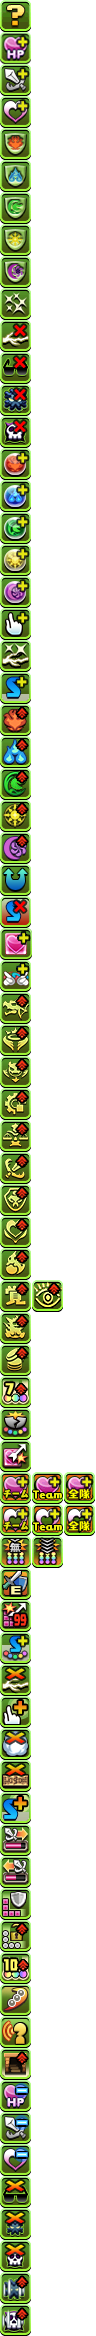
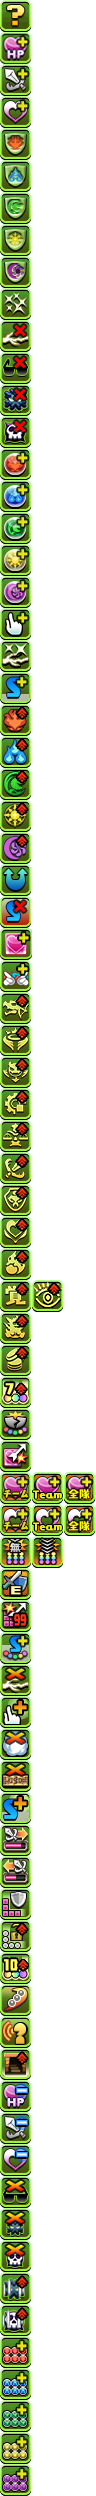
增加新的5个2串觉醒

diff --git a/triple.html b/triple.html
@@ -405,6 +405,11 @@ var formation = new Formation(teamsCount,6);
 						<li class="awoken-count display-none"><span class="awoken-icon" data-awoken-icon="70"></span><span class="count"></span></li><!--大防毒-->
 						<li class="awoken-count display-none"><span class="awoken-icon" data-awoken-icon="71"></span><span class="count"></span></li><!--掉废-->
 						<li class="awoken-count display-none"><span class="awoken-icon" data-awoken-icon="72"></span><span class="count"></span></li><!--掉毒-->
+						<li class="awoken-count display-none"><span class="awoken-icon" data-awoken-icon="73"></span><span class="count"></span></li><!--2串火-->
+						<li class="awoken-count display-none"><span class="awoken-icon" data-awoken-icon="74"></span><span class="count"></span></li><!--2串水-->
+						<li class="awoken-count display-none"><span class="awoken-icon" data-awoken-icon="75"></span><span class="count"></span></li><!--2串木-->
+						<li class="awoken-count display-none"><span class="awoken-icon" data-awoken-icon="76"></span><span class="count"></span></li><!--2串光-->
+						<li class="awoken-count display-none"><span class="awoken-icon" data-awoken-icon="77"></span><span class="count"></span></li><!--2串暗-->
 					</ul>
 				</div>
 			</li>
@@ -745,6 +750,11 @@ var formation = new Formation(teamsCount,6);
 						<li class="awoken-count display-none"><span class="awoken-icon" data-awoken-icon="70"></span><span class="count"></span></li><!--大防毒-->
 						<li class="awoken-count display-none"><span class="awoken-icon" data-awoken-icon="71"></span><span class="count"></span></li><!--掉废-->
 						<li class="awoken-count display-none"><span class="awoken-icon" data-awoken-icon="72"></span><span class="count"></span></li><!--掉毒-->
+						<li class="awoken-count display-none"><span class="awoken-icon" data-awoken-icon="73"></span><span class="count"></span></li><!--2串火-->
+						<li class="awoken-count display-none"><span class="awoken-icon" data-awoken-icon="74"></span><span class="count"></span></li><!--2串水-->
+						<li class="awoken-count display-none"><span class="awoken-icon" data-awoken-icon="75"></span><span class="count"></span></li><!--2串木-->
+						<li class="awoken-count display-none"><span class="awoken-icon" data-awoken-icon="76"></span><span class="count"></span></li><!--2串光-->
+						<li class="awoken-count display-none"><span class="awoken-icon" data-awoken-icon="77"></span><span class="count"></span></li><!--2串暗-->
 					</ul>
 				</div>
 			</li>
@@ -1085,6 +1095,11 @@ var formation = new Formation(teamsCount,6);
 						<li class="awoken-count display-none"><span class="awoken-icon" data-awoken-icon="70"></span><span class="count"></span></li><!--大防毒-->
 						<li class="awoken-count display-none"><span class="awoken-icon" data-awoken-icon="71"></span><span class="count"></span></li><!--掉废-->
 						<li class="awoken-count display-none"><span class="awoken-icon" data-awoken-icon="72"></span><span class="count"></span></li><!--掉毒-->
+						<li class="awoken-count display-none"><span class="awoken-icon" data-awoken-icon="73"></span><span class="count"></span></li><!--2串火-->
+						<li class="awoken-count display-none"><span class="awoken-icon" data-awoken-icon="74"></span><span class="count"></span></li><!--2串水-->
+						<li class="awoken-count display-none"><span class="awoken-icon" data-awoken-icon="75"></span><span class="count"></span></li><!--2串木-->
+						<li class="awoken-count display-none"><span class="awoken-icon" data-awoken-icon="76"></span><span class="count"></span></li><!--2串光-->
+						<li class="awoken-count display-none"><span class="awoken-icon" data-awoken-icon="77"></span><span class="count"></span></li><!--2串暗-->
 					</ul>
 				</div>
 			</li>
@@ -1237,6 +1252,11 @@ var formation = new Formation(teamsCount,6);
 					<li class="awoken-count zero"><button class="awoken-icon" data-awoken-icon="70"></button><label class="count-symbol"><input type="button" class="count" value="0" /></label></li><!--大防毒-->
 					<li class="awoken-count zero"><button class="awoken-icon" data-awoken-icon="71"></button><label class="count-symbol"><input type="button" class="count" value="0" /></label></li><!--掉废-->
 					<li class="awoken-count zero"><button class="awoken-icon" data-awoken-icon="72"></button><label class="count-symbol"><input type="button" class="count" value="0" /></label></li><!--掉毒-->
+					<li class="awoken-count zero"><button class="awoken-icon" data-awoken-icon="73"></button><label class="count-symbol"><input type="button" class="count" value="0" /></label></li><!--2串火-->
+					<li class="awoken-count zero"><button class="awoken-icon" data-awoken-icon="74"></button><label class="count-symbol"><input type="button" class="count" value="0" /></label></li><!--2串水-->
+					<li class="awoken-count zero"><button class="awoken-icon" data-awoken-icon="75"></button><label class="count-symbol"><input type="button" class="count" value="0" /></label></li><!--2串木-->
+					<li class="awoken-count zero"><button class="awoken-icon" data-awoken-icon="76"></button><label class="count-symbol"><input type="button" class="count" value="0" /></label></li><!--2串光-->
+					<li class="awoken-count zero"><button class="awoken-icon" data-awoken-icon="77"></button><label class="count-symbol"><input type="button" class="count" value="0" /></label></li><!--2串暗-->
 				</ul>
 			</div>
 			<div class="sawoken-div"><!--超觉醒-->
@@ -1314,6 +1334,11 @@ var formation = new Formation(teamsCount,6);
 					<li class="awoken-count"><input type="checkbox" class="sawoken-check" name="types" value="67" id="search-awoken-67" /><label class="awoken-icon" data-awoken-icon="67" for="search-awoken-67"></label></li><!--回复- -->
 					<li class="awoken-count"><input type="checkbox" class="sawoken-check" name="types" value="71" id="search-awoken-71" /><label class="awoken-icon" data-awoken-icon="71" for="search-awoken-71"></label></li><!--掉废-->
 					<li class="awoken-count"><input type="checkbox" class="sawoken-check" name="types" value="72" id="search-awoken-72" /><label class="awoken-icon" data-awoken-icon="72" for="search-awoken-72"></label></li><!--掉毒-->
+					<li class="awoken-count"><input type="checkbox" class="sawoken-check" name="types" value="73" id="search-awoken-73" /><label class="awoken-icon" data-awoken-icon="73" for="search-awoken-73"></label></li><!--2串火-->
+					<li class="awoken-count"><input type="checkbox" class="sawoken-check" name="types" value="74" id="search-awoken-74" /><label class="awoken-icon" data-awoken-icon="74" for="search-awoken-74"></label></li><!--2串水-->
+					<li class="awoken-count"><input type="checkbox" class="sawoken-check" name="types" value="75" id="search-awoken-75" /><label class="awoken-icon" data-awoken-icon="75" for="search-awoken-75"></label></li><!--2串木-->
+					<li class="awoken-count"><input type="checkbox" class="sawoken-check" name="types" value="76" id="search-awoken-76" /><label class="awoken-icon" data-awoken-icon="76" for="search-awoken-76"></label></li><!--2串光-->
+					<li class="awoken-count"><input type="checkbox" class="sawoken-check" name="types" value="77" id="search-awoken-77" /><label class="awoken-icon" data-awoken-icon="77" for="search-awoken-77"></label></li><!--2串暗-->
 				</ul>
 			</div>
 			<div class="control-div"><!--控制栏-->

diff --git a/solo.html b/solo.html
@@ -390,6 +390,11 @@ var formation = new Formation(teamsCount,6);
 						<li class="awoken-count display-none"><span class="awoken-icon" data-awoken-icon="70"></span><span class="count"></span></li><!--大防毒-->
 						<li class="awoken-count display-none"><span class="awoken-icon" data-awoken-icon="71"></span><span class="count"></span></li><!--掉废-->
 						<li class="awoken-count display-none"><span class="awoken-icon" data-awoken-icon="72"></span><span class="count"></span></li><!--掉毒-->
+						<li class="awoken-count display-none"><span class="awoken-icon" data-awoken-icon="73"></span><span class="count"></span></li><!--2串火-->
+						<li class="awoken-count display-none"><span class="awoken-icon" data-awoken-icon="74"></span><span class="count"></span></li><!--2串水-->
+						<li class="awoken-count display-none"><span class="awoken-icon" data-awoken-icon="75"></span><span class="count"></span></li><!--2串木-->
+						<li class="awoken-count display-none"><span class="awoken-icon" data-awoken-icon="76"></span><span class="count"></span></li><!--2串光-->
+						<li class="awoken-count display-none"><span class="awoken-icon" data-awoken-icon="77"></span><span class="count"></span></li><!--2串暗-->
 					</ul>
 				</div>
 			</li>
@@ -542,6 +547,11 @@ var formation = new Formation(teamsCount,6);
 					<li class="awoken-count zero"><button class="awoken-icon" data-awoken-icon="70"></button><label class="count-symbol"><input type="button" class="count" value="0" /></label></li><!--大防毒-->
 					<li class="awoken-count zero"><button class="awoken-icon" data-awoken-icon="71"></button><label class="count-symbol"><input type="button" class="count" value="0" /></label></li><!--掉废-->
 					<li class="awoken-count zero"><button class="awoken-icon" data-awoken-icon="72"></button><label class="count-symbol"><input type="button" class="count" value="0" /></label></li><!--掉毒-->
+					<li class="awoken-count zero"><button class="awoken-icon" data-awoken-icon="73"></button><label class="count-symbol"><input type="button" class="count" value="0" /></label></li><!--2串火-->
+					<li class="awoken-count zero"><button class="awoken-icon" data-awoken-icon="74"></button><label class="count-symbol"><input type="button" class="count" value="0" /></label></li><!--2串水-->
+					<li class="awoken-count zero"><button class="awoken-icon" data-awoken-icon="75"></button><label class="count-symbol"><input type="button" class="count" value="0" /></label></li><!--2串木-->
+					<li class="awoken-count zero"><button class="awoken-icon" data-awoken-icon="76"></button><label class="count-symbol"><input type="button" class="count" value="0" /></label></li><!--2串光-->
+					<li class="awoken-count zero"><button class="awoken-icon" data-awoken-icon="77"></button><label class="count-symbol"><input type="button" class="count" value="0" /></label></li><!--2串暗-->
 				</ul>
 			</div>
 			<div class="sawoken-div"><!--超觉醒-->
@@ -619,6 +629,11 @@ var formation = new Formation(teamsCount,6);
 					<li class="awoken-count"><input type="checkbox" class="sawoken-check" name="types" value="67" id="search-awoken-67" /><label class="awoken-icon" data-awoken-icon="67" for="search-awoken-67"></label></li><!--回复- -->
 					<li class="awoken-count"><input type="checkbox" class="sawoken-check" name="types" value="71" id="search-awoken-71" /><label class="awoken-icon" data-awoken-icon="71" for="search-awoken-71"></label></li><!--掉废-->
 					<li class="awoken-count"><input type="checkbox" class="sawoken-check" name="types" value="72" id="search-awoken-72" /><label class="awoken-icon" data-awoken-icon="72" for="search-awoken-72"></label></li><!--掉毒-->
+					<li class="awoken-count"><input type="checkbox" class="sawoken-check" name="types" value="73" id="search-awoken-73" /><label class="awoken-icon" data-awoken-icon="73" for="search-awoken-73"></label></li><!--2串火-->
+					<li class="awoken-count"><input type="checkbox" class="sawoken-check" name="types" value="74" id="search-awoken-74" /><label class="awoken-icon" data-awoken-icon="74" for="search-awoken-74"></label></li><!--2串水-->
+					<li class="awoken-count"><input type="checkbox" class="sawoken-check" name="types" value="75" id="search-awoken-75" /><label class="awoken-icon" data-awoken-icon="75" for="search-awoken-75"></label></li><!--2串木-->
+					<li class="awoken-count"><input type="checkbox" class="sawoken-check" name="types" value="76" id="search-awoken-76" /><label class="awoken-icon" data-awoken-icon="76" for="search-awoken-76"></label></li><!--2串光-->
+					<li class="awoken-count"><input type="checkbox" class="sawoken-check" name="types" value="77" id="search-awoken-77" /><label class="awoken-icon" data-awoken-icon="77" for="search-awoken-77"></label></li><!--2串暗-->
 				</ul>
 			</div>
 			<div class="control-div"><!--控制栏-->

diff --git a/multi.html b/multi.html
@@ -592,6 +592,11 @@ var formation = new Formation(teamsCount,5);
 					<li class="awoken-count zero"><button class="awoken-icon" data-awoken-icon="70"></button><label class="count-symbol"><input type="button" class="count" value="0" /></label></li><!--大防毒-->
 					<li class="awoken-count zero"><button class="awoken-icon" data-awoken-icon="71"></button><label class="count-symbol"><input type="button" class="count" value="0" /></label></li><!--掉废-->
 					<li class="awoken-count zero"><button class="awoken-icon" data-awoken-icon="72"></button><label class="count-symbol"><input type="button" class="count" value="0" /></label></li><!--掉毒-->
+					<li class="awoken-count zero"><button class="awoken-icon" data-awoken-icon="73"></button><label class="count-symbol"><input type="button" class="count" value="0" /></label></li><!--2串火-->
+					<li class="awoken-count zero"><button class="awoken-icon" data-awoken-icon="74"></button><label class="count-symbol"><input type="button" class="count" value="0" /></label></li><!--2串水-->
+					<li class="awoken-count zero"><button class="awoken-icon" data-awoken-icon="75"></button><label class="count-symbol"><input type="button" class="count" value="0" /></label></li><!--2串木-->
+					<li class="awoken-count zero"><button class="awoken-icon" data-awoken-icon="76"></button><label class="count-symbol"><input type="button" class="count" value="0" /></label></li><!--2串光-->
+					<li class="awoken-count zero"><button class="awoken-icon" data-awoken-icon="77"></button><label class="count-symbol"><input type="button" class="count" value="0" /></label></li><!--2串暗-->
 				</ul>
 			</div>
 			<div class="sawoken-div"><!--超觉醒-->
@@ -669,6 +674,11 @@ var formation = new Formation(teamsCount,5);
 					<li class="awoken-count"><input type="checkbox" class="sawoken-check" name="types" value="67" id="search-awoken-67" /><label class="awoken-icon" data-awoken-icon="67" for="search-awoken-67"></label></li><!--回复- -->
 					<li class="awoken-count"><input type="checkbox" class="sawoken-check" name="types" value="71" id="search-awoken-71" /><label class="awoken-icon" data-awoken-icon="71" for="search-awoken-71"></label></li><!--掉废-->
 					<li class="awoken-count"><input type="checkbox" class="sawoken-check" name="types" value="72" id="search-awoken-72" /><label class="awoken-icon" data-awoken-icon="72" for="search-awoken-72"></label></li><!--掉毒-->
+					<li class="awoken-count"><input type="checkbox" class="sawoken-check" name="types" value="73" id="search-awoken-73" /><label class="awoken-icon" data-awoken-icon="73" for="search-awoken-73"></label></li><!--2串火-->
+					<li class="awoken-count"><input type="checkbox" class="sawoken-check" name="types" value="74" id="search-awoken-74" /><label class="awoken-icon" data-awoken-icon="74" for="search-awoken-74"></label></li><!--2串水-->
+					<li class="awoken-count"><input type="checkbox" class="sawoken-check" name="types" value="75" id="search-awoken-75" /><label class="awoken-icon" data-awoken-icon="75" for="search-awoken-75"></label></li><!--2串木-->
+					<li class="awoken-count"><input type="checkbox" class="sawoken-check" name="types" value="76" id="search-awoken-76" /><label class="awoken-icon" data-awoken-icon="76" for="search-awoken-76"></label></li><!--2串光-->
+					<li class="awoken-count"><input type="checkbox" class="sawoken-check" name="types" value="77" id="search-awoken-77" /><label class="awoken-icon" data-awoken-icon="77" for="search-awoken-77"></label></li><!--2串暗-->
 				</ul>
 			</div>
 			<div class="control-div"><!--控制栏-->

diff --git a/languages/zh-CN.js b/languages/zh-CN.js
@@ -61,7 +61,7 @@ function parseSkillDescription(skill)
 	//类型名数组
 	const typeName = ["进化","平衡","体力","回复","龙","神","攻击","恶魔","机械","特别保护","10","11","觉醒","13","强化","卖钱"];
 	//觉醒名数组
-	const awokenName = ["HP+","攻击+","回复+","火盾","水盾","木盾","光盾","暗盾","自回","防封","防暗","防废","防毒","火+","水+","木+","光+","暗+","手指","心解","SB","火横","水横","木横","光横","暗横","U","SX","心+","协力","龙杀","神杀","恶魔杀","机杀","平衡杀","攻击杀","体力杀","回复杀","进化杀","觉醒杀","强化杀","卖钱杀","7c","5色破防","心追","全体 HP ","全体回复","破无效","武器觉醒","方块心追","5色溜","大防封","大手指","防云","防封条","大SB","满血强化","下半血强化","L盾","L解锁","10c","c珠","语音","奖励增加"," HP -","攻击-","回复-","大防暗","大防废","大防毒","掉废","掉毒"];
+	const awokenName = ["HP+","攻击+","回复+","火盾","水盾","木盾","光盾","暗盾","自回","防封","防暗","防废","防毒","火+","水+","木+","光+","暗+","手指","心解","SB","火横","水横","木横","光横","暗横","U","SX","心+","协力","龙杀","神杀","恶魔杀","机杀","平衡杀","攻击杀","体力杀","回复杀","进化杀","觉醒杀","强化杀","卖钱杀","7c","5色破防","心追","全体 HP ","全体回复","破无效","武器觉醒","方块心追","5色溜","大防封","大手指","防云","防封条","大SB","满血强化","下半血强化","L盾","L解锁","10c","c珠","语音","奖励增加"," HP -","攻击-","回复-","大防暗","大防废","大防毒","掉废","掉毒","2串火","2串水","2串木","2串光","2串暗"];
 	const ClumsN = ["左边第1竖列","左边第2竖列","左边第3竖列","右边第3竖列","右边第2竖列","右边第1竖列"];
 	const RowsN = ["最上1横行","上方第2横行","下方第3横行","下方第2横行","最下1横行"];
 	//返回属性名

diff --git a/script-json_data.js b/script-json_data.js
@@ -49,7 +49,7 @@ const equivalent_awoken = [
 	{small:21,big:56,times:2}, //SB
 ];
 //官方的觉醒排列顺序
-const official_awoken_sorting = [21,19,43,45,10,11,12,13,49,56,53,61,50,52,68,69,70,28,27,48,62,57,58,60,59,54,55,14,15,16,17,18,29,20,44,51,22,23,24,25,26,32,31,33,34,4,5,6,7,8,35,36,37,38,1,2,3,46,47,39,40,41,42,65,66,67,9,71,72,30,64,63];
+const official_awoken_sorting = [21,19,43,45,10,11,12,13,49,56,53,61,50,52,68,69,70,28,27,48,62,57,58,60,59,54,55,14,15,16,17,18,29,20,44,51,22,23,24,25,26,32,31,33,34,4,5,6,7,8,35,36,37,38,1,2,3,46,47,39,40,41,42,65,66,67,9,71,72,30,64,63,73,74,75,76,77];
 //排序程序列表
 const sort_function_list = [
 	{tag:"sort_none",name:"无",function:()=>0},

diff --git a/style-monsterimages.css b/style-monsterimages.css
@@ -596,6 +596,21 @@
 .awoken-icon[data-awoken-icon='72']{/*掉毒*/
 	background-position-y:calc(-32px * 72);
 }
+.awoken-icon[data-awoken-icon='73']{/*2串火*/
+	background-position-y:calc(-32px * 73);
+}
+.awoken-icon[data-awoken-icon='74']{/*2串水*/
+	background-position-y:calc(-32px * 74);
+}
+.awoken-icon[data-awoken-icon='75']{/*2串木*/
+	background-position-y:calc(-32px * 75);
+}
+.awoken-icon[data-awoken-icon='76']{/*2串光*/
+	background-position-y:calc(-32px * 76);
+}
+.awoken-icon[data-awoken-icon='77']{/*2串暗*/
+	background-position-y:calc(-32px * 77);
+}
 /*类型*/
 .type-icon{
 	background-image: url(images/type.png);
